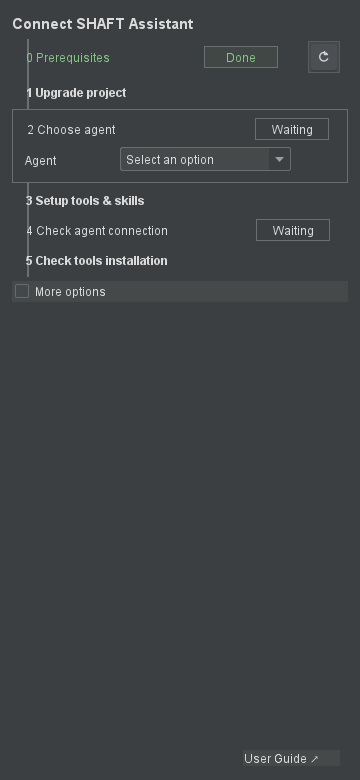
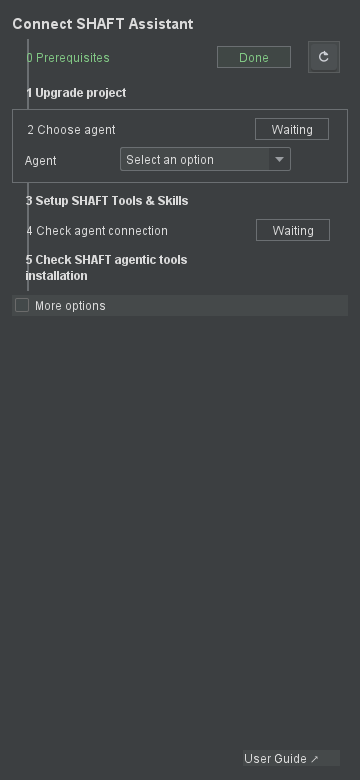
docs(agentic): use exact FR-001 Assistant setup step titles
Visible titles match Setup SHAFT Tools & Skills and Check SHAFT agentic
tools installation. Screenshots regenerated from ShaftPluginScreenshotRendererTest.

diff --git a/docs/agentic/intellij.md b/docs/agentic/intellij.md
@@ -58,7 +58,7 @@ support is available. First run shows a six-step setup inside the tool window:
    `--client grok` and verifies the `grok` executable on PATH. This step has no
    **Check** button. External desktop and IDE runtimes stay unverified when the
    plugin cannot observe their state.
-3. **Setup tools & skills** (accessible name: Setup SHAFT Tools & Skills) copies
+3. **Setup SHAFT Tools & Skills** copies
    the Agentic Tools installer command for the selected route and opens an
    IntelliJ terminal with the command pre-typed. Press Enter there to run it.
    The copied command downloads `scripts/mcp/install-shaft-agentic-tools` from
@@ -68,7 +68,7 @@ support is available. First run shows a six-step setup inside the tool window:
 4. **Check agent connection** is the existing agent-readiness probe. It confirms
    the selected CLI or cloud route can run. It does not claim that SHAFT tools
    are installed.
-5. **Check tools installation** finds the installed SHAFT MCP command
+5. **Check SHAFT agentic tools installation** finds the installed SHAFT MCP command
    automatically, verifies the workspace, and additionally asks the selected
    agent CLI itself whether it can access `shaft-mcp` (for example via
    `claude mcp get shaft-mcp` or `grok` / `codex` equivalents), so after a
@@ -107,14 +107,14 @@ one-liners stay `scripts/mcp/install.ps1` and `install.sh`.
 After a command has passed setup, opening SHAFT shows the Assistant view.
 Without a verified MCP command, the landing view keeps the click-through setup
 visible. Unverified settings stay behind the same setup gate until **Check
-tools installation** passes.
+SHAFT agentic tools installation** passes.
 
-![SHAFT IntelliJ Assistant setup wizard with Prerequisites marked Done, Choose agent expanded on Select an option, Setup tools and skills next, then Check agent connection and Check tools installation](/img/agentic/intellij-plugin-mcp-setup.png)
+![SHAFT IntelliJ Assistant setup wizard with Prerequisites marked Done, Choose agent expanded on Select an option, Setup SHAFT Tools and Skills next, then Check agent connection and Check SHAFT agentic tools installation](/img/agentic/intellij-plugin-mcp-setup.png)
 
 Setup opens with a **Connect SHAFT Assistant** summary and a simple vertical
 stepper with visible state chips, only showing the buttons relevant to the
 current step, so the path reads as
-**Prerequisites -> Upgrade project -> Choose agent -> Setup tools & skills -> Check agent connection -> Check tools installation -> Start chatting**.
+**Prerequisites -> Upgrade project -> Choose agent -> Setup SHAFT Tools & Skills -> Check agent connection -> Check SHAFT agentic tools installation -> Start chatting**.
 Every state chip reflects a real verification of what is on the machine or in
 the project — never a "you clicked the button" heuristic — and a check that
 ran and did not pass shows an explicit red **Failed** chip with recovery
@@ -145,9 +145,9 @@ instead of an external agent CLI.
 
 ![SHAFT IntelliJ Assistant setup wizard with Gemini in IntelliJ selected and an empty Gemini API key field for pasting a Google AI Studio key](/img/agentic/intellij-plugin-mcp-setup-gemini.png)
 
-![Completed SHAFT IntelliJ Assistant setup showing Check tools installation marked Done, Choose agent still waiting on Select an option, and a Ready row with Start without an agent](/img/agentic/intellij-plugin-mcp-setup-success.png)
+![Completed SHAFT IntelliJ Assistant setup showing Check SHAFT agentic tools installation marked Done, Choose agent still waiting on Select an option, and a Ready row with Start without an agent](/img/agentic/intellij-plugin-mcp-setup-success.png)
 
-![SHAFT IntelliJ Assistant setup in dark mode with Check tools installation marked Failed and Copy actions for diagnostics and the SHAFT MCP docs link](/img/agentic/intellij-plugin-mcp-setup-error-dark.png)
+![SHAFT IntelliJ Assistant setup in dark mode with Check SHAFT agentic tools installation marked Failed and Copy actions for diagnostics and the SHAFT MCP docs link](/img/agentic/intellij-plugin-mcp-setup-error-dark.png)
 
 Troubleshooting details distinguish the failure type when the plugin can infer
 it:
@@ -160,10 +160,10 @@ it:
   MCP configuration file.
 - **Client runtime**: install the selected client CLI or add it to `PATH`, then
   retry.
-- **MCP command**: rerun the terminal installer, then click **Check tools
-  installation** so SHAFT can find the installed command automatically.
-- **MCP probe**: rerun the installer command, then click **Check tools
-  installation** once it finishes.
+- **MCP command**: rerun the terminal installer, then click **Check SHAFT
+  agentic tools installation** so SHAFT can find the installed command automatically.
+- **MCP probe**: rerun the installer command, then click **Check SHAFT
+  agentic tools installation** once it finishes.
 
 The setup pane includes one-click actions for copying the SHAFT upgrade
 command, copying the installer command, opening the IntelliJ terminal for
